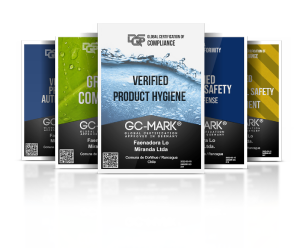
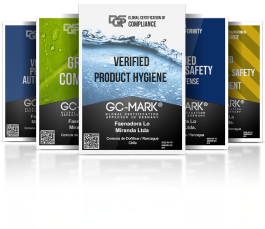
FIX color Tittle cardMap

diff --git a/src/utils/cardMapContent.js b/src/utils/cardMapContent.js
@@ -10,12 +10,14 @@ const cardMapContent = [
     label: "Nuestra Historia",
     body: "Nuestro camino comienza en el año 1955 con la producción de huevos frescos en una pequeña granja de Doñihue, en la region de O`Higgins. Con el paso del tiempo incorporamos la produccion de pollo, cerdo, salmones y mucho más, hasta construir las marcas que hoy todos conocen.",
     image: imgHistoria,
+    id:"historia",
     link:"/historia"
   },
   {
     label: "Oficina Central",
     body: "Nuestras oficinas centrales están ubicadas en Doñihue. En este lugar se encuentra la mayoria de nuestros departamentos ejecutivos, desde donde controlamos aspectos de la producción, gestión y comunicación de cada una de las marcas de Agrosuper. En conjunto hoy día contamos con una dotación de más de 13.282 colaboradores. ",
     image: imgOficina,
+    id:"oficina",
     link:"/oficina"
 
   },
@@ -23,24 +25,28 @@ const cardMapContent = [
     label:"Nuestras Granjas",
     body:"Nuestros planteles de crianza cuentan con la más avanzada tecnología por que stamos 100% comprometidos con el bienestar animal, velando por el cumplimiento de las 5 libertades propuestas por la Organización Mundial de Sanidad Animal (OIE).",
     image: imgGranjas,
+    id:"granjas",
     link:"/granja"
   },
   {
     label:"Plantas Industriales",
     body:"En nuestras fabricas ocurren todos los procesos industriales de nuestras diferentes áreas de negocio. Junto a lo lo último de la tecnologia de la mano con altos estandares de calidad nos permiten llevar a las mesas de Chile y el mundo la mejor proteina.",
     image: imgPlantas,
+    id:"plantas",
     link:"/planta"
   },
   {
     label:"Producción Responsable",
     body:"Somos concientes que debemos hacernos responsables de los residuos de nuestra producción. Es por ello que contamos con plantas de tratamientos para desechos solidos y líquidos que nos permiten reducir nuestras emisiones y de paso ayudar a la comunidad con el producto útil del tratamiento de estos elementos. ",
     image: imgProduccion,
+    id:"produccion",
     link:"/produccion"
   },
   {
     label:"Comunidad",
     body:"Somos orgullosos del entorno al que pertenecemos y como nos relacionamos con nuestras comunidades. A traves de diferentes programas buscamos ayudar y aportar nuestro grano de arena en el desarrollo de la sociedad en su conjunto y sobre todo de aquellos que más lo necesitan.",
    image: imgComunidad,
+   id:"comunidad",
    link:"/comunidad"
   },
 

diff --git a/src/components/Atoms/CardMap/index.js b/src/components/Atoms/CardMap/index.js
@@ -39,16 +39,34 @@ const StyledButton = withStyles({
     textTransform: "capitalize",
   },
 })(Button);
+const currentCard ={
+  historia:"historia",
+   
+  oficina: "oficina",
 
-const CardMap = ({ open, handleClose, body, label, image , link}) => {
+  granjas: "granjas",
+
+ plantas: "plantas",
+
+ produccion: "produccion" ,
+
+  comunidad :"comunidad"
+
+}
+
+
+const CardMap = ({ open, handleClose, body, label, image , link , id }) => {
   const classes = useStyles();
+
+
+  
   return (
     <Modal open={open} onClose={handleClose} className="modal">
       <Card className={classes.root}>
         <CardActionArea component={RouterLink} to={link}>
           <CardMedia component="img" alt={label} image={image} title={label} />
           <CardContent>
-            <Typography gutterBottom variant="h3" component="h2">
+            <Typography gutterBottom variant="h3" component="h2"  className={currentCard[id]}>
               {label}
             </Typography>
             <Typography variant="h2" className={classes.content} component="p">

diff --git a/src/components/Molecules/MapAgroSuper/index.js b/src/components/Molecules/MapAgroSuper/index.js
@@ -22,6 +22,7 @@ const MapAgroSuper = () => {
     setOpen(false);
   };
 
+
   return (
     <div >
          <IconButton
@@ -102,9 +103,11 @@ const MapAgroSuper = () => {
         />
       </IconButton>
       
-      {cardMapContent.map(({label, body, image, link })=>{
+      {cardMapContent.map(({label, body, image, link , id })=>{
+      
+        
         return label === selectedId ? 
-        (<CardMap open={open} handleClose={handleClose} image={image} label={label} body={body} link={link}/>)
+        (<CardMap open={open} handleClose={handleClose} image={image} label={label} body={body} link={link} id={id}/>)
         : null 
       })}   
      

diff --git a/src/components/Organism/ProcessHeader/index.js b/src/components/Organism/ProcessHeader/index.js
@@ -130,7 +130,7 @@ const ProcessHeader = () => {
       url: "/planta/certificaciones",
       color: classes.planta,
       previous: "/planta/beneficios",
-      next: '/planta/sigas',
+      next: null,
 
     },
     {
@@ -138,7 +138,7 @@ const ProcessHeader = () => {
       url: "/planta/sigas",
       color: classes.planta,
       previous: "/planta/certificaciones",
-      next: null,
+      next: "/planta/certificaciones",
 
     },
     {

diff --git a/src/components/Molecules/MapAgroSuper/index.css b/src/components/Molecules/MapAgroSuper/index.css
@@ -15,6 +15,26 @@ body{
 	
 	
 }
+
+.historia{
+    color:#779743
+}
+.oficina{
+    color:#44d2d5
+}
+.granjas{
+    color:#b2db63
+}
+.plantas{
+    color:#f06650
+}
+.produccion{
+    color:#48ae95
+}
+.comunidad{
+    color:#4b95c0
+}
+
 .modal{
 	display: flex;
 	align-items: center;
